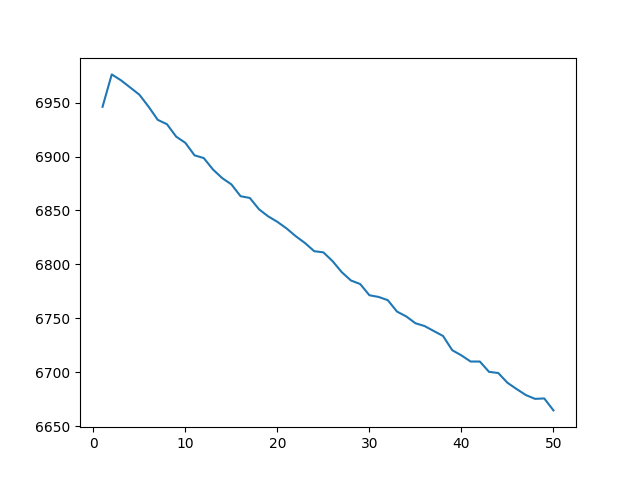
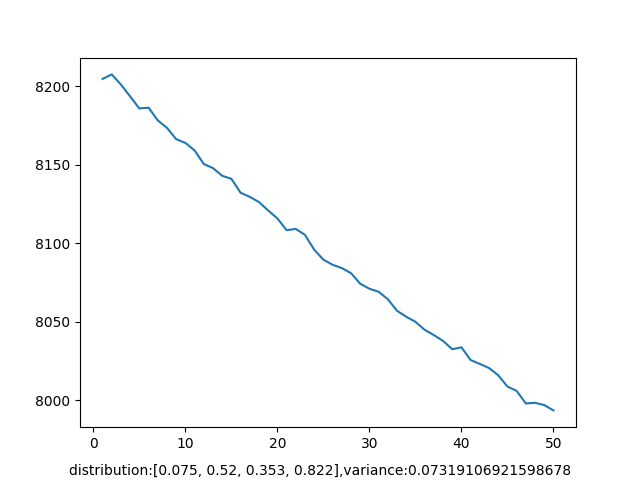
aaa

diff --git a/main.py b/main.py
@@ -1,8 +1,11 @@
 from UCB1_algorism.UCB1algorism import UCB1algorism
-import numpy 
+import numpy as np
 import matplotlib.pyplot as plt
 from tqdm import tqdm
+from UCB1_algorism.beta_distribution import distribution
 def main():
+    D = distribution(4,True)
+    print(D)
     y = [0 for i in range(50)]
     Amax = 0
     summax = 0
@@ -10,14 +13,16 @@ def main():
         n = i * 0.1
         sum = 0
         for j in range(500):
-            sum += UCB1algorism(4,10000,n)
+            sum += UCB1algorism(4,10000,n,D)
         y[i-1] = sum / 500
         if summax < sum:
             summax = sum
-            Amax = i    
+            Amax = n
     x = [i for i in range(1,51)]
-    
+    variance = np.var(D)
+    roundedD = [round(i,3) for i in D]
     plt.plot(x,y)
+    plt.figtext(0.5, 0.01, f"distribution:{roundedD}", ha="center")
     plt.savefig("graph.png")
     plt.show()
     print(Amax)
